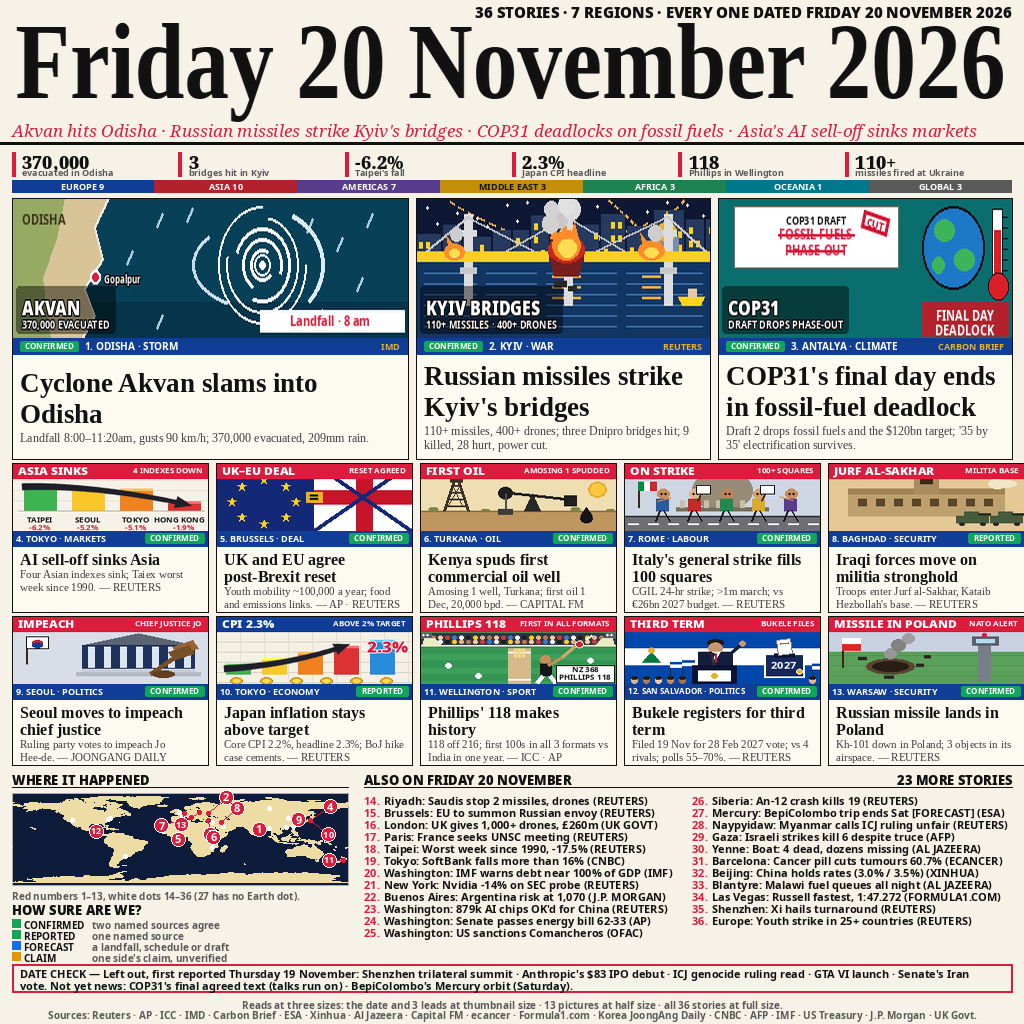
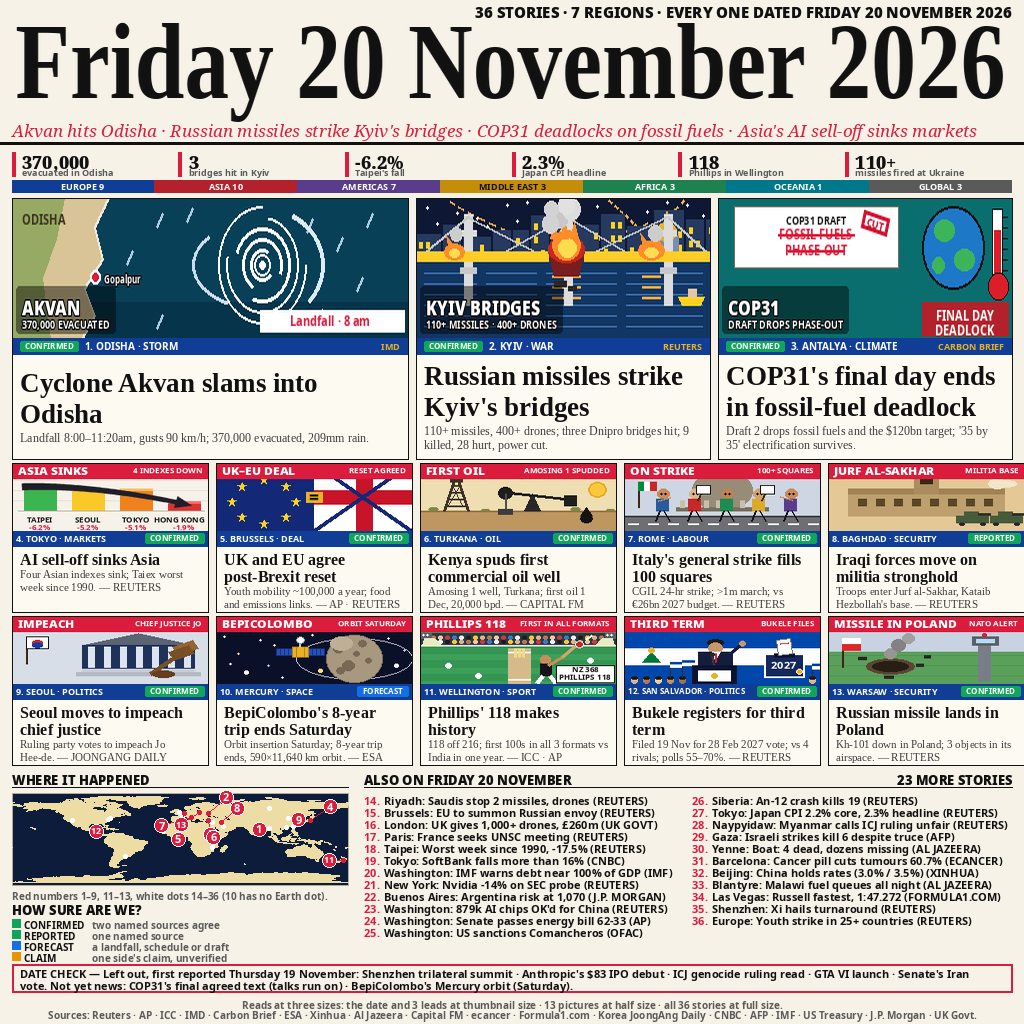
v11: BepiColombo drawn as card 10 (Mercury + spacecraft + orbit, FORECAST); CPI to also-list 27

diff --git a/draw.py b/draw.py
@@ -1,13 +1,13 @@
 #!/usr/bin/env python3
-"""news-image-20261120 v8: 36 stories, newspaper front page, top-10 chase.
+"""news-image-20261120 v11: 36 stories, newspaper front page, top-10 chase.
 Draws entry.png (1024x1024, deterministic) from world.geo.json only.
-v8 (on the v7 design — cream paper, black serif masthead, 6-number strip,
-region bar, solid art banners): the TOP-10 rebuild — masthead + hero
-headlines scaled up (title 68->72px, kicker/deckline up a step, hero
-headlines 22->27px with the art shrunk 105->84px to fit and the hero text
-block vertically centred), per-card verification tags (CONFIRMED where
-research-v5.md shows 2+ named outlets agree, REPORTED where single-outlet;
-BepiColombo flagged [FORECAST] in the also-list), legend gains CONFIRMED.
+v11 (on the v10 design — cream paper, black serif masthead 108px squeezed,
+6-number strip, region bar, solid art banners): ONE change — card 10 is
+now BepiColombo drawn (Mercury + spacecraft + orbit, original PIL vector
+art, FORECAST pill: orbit insertion is Saturday 21 Nov, not 20 Nov) in
+place of Japan CPI, which drops to also-list 27 (its 2.3% stays in the
+stats strip). Pin 10 leaves the map (no Earth dot); 27 becomes the Tokyo
+CPI dot. Region counts net unchanged (ASIA 10, GLOBAL 3).
 All facts verified live 2026-11-21; see research-v5.md + NOTES.md. Design
 baseline (user-approved 2026-11-20): boxed 1px INK cards,
 LiberationSerif-Bold headlines + LiberationSerif decks. CONTENT ONLY changed
@@ -140,7 +140,9 @@ PILL_COL = {
 # Daily+Asia Daily; Phillips ICC+AP+Reuters; Bukele Reuters+BusinessWorld;
 # Poland Reuters+Polish DefMin; Akvan row says "ALL CONFIRMED", IMD via
 # Hindu BusinessLine + CSR Journal). REPORTED where single-outlet:
-# Iraq (Reuters only), CPI (Reuters only, Japan Statistics Bureau data).
+# Iraq (Reuters only). BepiColombo is FORECAST (a schedule: ESA +
+# Wikipedia + EarthSky agree insertion is Sat 21 Nov, not 20 Nov);
+# CPI (Reuters only, Japan Statistics Bureau data) is now also-list 27.
 FRONT = [
     (1, "ODISHA", "STORM", "IMD", "REPORTED",
      "Cyclone Akvan slams into Odisha",
@@ -178,10 +180,10 @@ FRONT = [
      "Seoul moves to impeach chief justice",
      "Ruling party votes to impeach Jo Hee-de.",
      "IMPEACH", "CHIEF JUSTICE JO", "seoul", "CONFIRMED"),
-    (10, "TOKYO", "ECONOMY", "REUTERS", "REPORTED",
-     "Japan inflation stays above target",
-     "Core CPI 2.2%, headline 2.3%; BoJ hike case cements.",
-     "CPI 2.3%", "ABOVE 2% TARGET", "cpi", "REPORTED"),
+    (10, "MERCURY", "SPACE", "ESA", "REPORTED",
+     "BepiColombo's 8-year trip ends Saturday",
+     "Orbit insertion Saturday; 8-year trip ends, 590×11,640 km orbit.",
+     "BEPICOLOMBO", "ORBIT SATURDAY", "bepi", "FORECAST"),
     (11, "WELLINGTON", "SPORT", "ICC · AP", "REPORTED",
      "Phillips' 118 makes history",
      "118 off 216; first 100s in all 3 formats vs India in one year.",
@@ -212,7 +214,7 @@ ALSO = [
     (24, "Washington", "Senate passes energy bill 62-33", "AP"),
     (25, "Washington", "US sanctions Comancheros", "OFAC"),
     (26, "Siberia", "An-12 crash kills 19", "REUTERS"),
-    (27, "Mercury", "BepiColombo trip ends Sat [FORECAST]", "ESA"),
+    (27, "Tokyo", "Japan CPI 2.2% core, 2.3% headline", "REUTERS"),
     (28, "Naypyidaw", "Myanmar calls ICJ ruling unfair", "REUTERS"),
     (29, "Gaza", "Israeli strikes kill 6 despite truce", "AFP"),
     (30, "Yenne", "Boat: 4 dead, dozens missing", "AL JAZEERA"),
@@ -237,15 +239,16 @@ STATS = [
 # list (FRONT 1-13 + ALSO 14-36), assigned by subject, not dateline city.
 # EUROPE 9: 2 Kyiv, 5 UK-EU, 7 Italy strike, 13 Poland, 15 Brussels,
 #   16 London, 17 Paris, 31 Barcelona, 36 youth strike.
-# ASIA 10: 1 Akvan, 4 Nikkei, 9 Seoul, 10 Japan CPI, 18 Taipei,
-#   19 Tokyo, 26 An-12, 28 Myanmar reaction, 32 Beijing, 35 Shenzhen.
+# ASIA 10: 1 Akvan, 4 Nikkei, 9 Seoul, 18 Taipei,
+#   19 Tokyo, 26 An-12, 27 Japan CPI, 28 Myanmar reaction, 32 Beijing,
+#   35 Shenzhen.
 # AMERICAS 7: 12 Bukele, 21 Nvidia probe, 22 Argentina risk, 23 AI chips,
 #   24 Senate, 25 sanctions, 34 Las Vegas.
 # MIDDLE EAST 3: 8 Iraq, 14 Riyadh, 29 Gaza strikes.
 # AFRICA 3: 6 Kenya oil, 30 Yenne, 33 Blantyre.
 # OCEANIA 1: 11 Phillips (Wellington).
-# GLOBAL 3: 3 COP31 (global climate summit), 20 IMF debt warning,
-#   27 BepiColombo.
+# GLOBAL 3: 3 COP31 (global climate summit), 10 BepiColombo,
+#   20 IMF debt warning.
 # Total 9+10+7+3+3+1+3 = 36.
 # (label, count, fill, text colour)
 REGIONS = [
@@ -270,7 +273,7 @@ LEGEND = [
 PINS = {
     1: (85.0, 19.3), 2: (30.5, 50.4), 3: (30.7, 36.9), 4: (139.7, 35.7),
     5: (4.4, 50.8), 6: (35.9, 3.1), 7: (12.5, 41.9), 8: (44.2, 32.8),
-    9: (127.0, 37.5), 10: (139.7, 35.7), 11: (174.8, -41.3),
+    9: (127.0, 37.5), 11: (174.8, -41.3),
     12: (-89.2, 13.7), 13: (21.0, 52.2),
 }
 DOTS = {
@@ -278,12 +281,14 @@ DOTS = {
     18: (121.6, 25.0), 19: (139.7, 35.7), 20: (-77.0, 38.9),
     21: (-74.0, 40.7), 22: (-58.4, -34.6), 23: (-77.0, 38.9),
     24: (-77.0, 38.9), 25: (-77.0, 38.9), 26: (96.0, 60.0),
+    27: (139.7, 35.7),
     28: (96.2, 19.8), 29: (34.4, 31.5), 30: (-17.2, 14.7),
     31: (2.2, 41.4), 32: (116.4, 39.9), 33: (35.0, -15.8),
     34: (-115.1, 36.2), 35: (114.1, 22.5), 36: (4.4, 50.8),
 }
-# v5: 27 BepiColombo has no Earth location (Mercury orbit insertion) —
-# it gets no dot, by design.
+# v11: 10 BepiColombo has no Earth location (Mercury orbit insertion) —
+# it gets no pin, by design (like 27 before the swap); 27 is now the
+# Tokyo CPI dot.
 
 PROBLEMS = []
 
@@ -694,7 +699,7 @@ def art_image(key, w, h):
         d.polygon([(166, 52), (160, 62), (172, 62)], fill=(20, 20, 20))
     elif key == "selloff":
         # v5.2: user rejected the v5.1 3D blue bars — redraw as the
-        # VERTICAL MIRROR of card 10 (the CPI rising chart, which the
+        # VERTICAL MIRROR of the old card-10 CPI rising chart (which the
         # user likes): same style — rainbow bars + ONE thick dark
         # curved arrow — but flipped: bars DESCEND left to right and
         # the arrow curves DOWN from top-left to bottom-right. Same
@@ -844,39 +849,55 @@ def art_image(key, w, h):
         d.polygon([(156, 42), (176, 34), (182, 44), (162, 52)],
                   fill=(120, 80, 40))
         d.ellipse([140, 64, 162, 72], fill=(100, 65, 30))
-    elif key == "cpi":
-        # v5.1: per the user's new reference (5 ascending rainbow bars +
-        # one thick dark curved arrow rising) — the v5 navy bars + red
-        # zigzag are gone. Same verified CPI data (core 2.2%, headline
-        # 2.3%). Light card background kept (not the reference's black).
+    elif key == "bepi":
+        # v11: BepiColombo's 8-year trip ends at Mercury — a drawn space
+        # panel: deep-space field, the cratered Mercury disc on its
+        # elliptical orbit, and the ESA craft (gold body, blue solar
+        # wings, white dish) riding the orbit up to it. Insertion is
+        # Saturday 21 Nov, so the card carries the FORECAST pill.
         # Original PIL vector code.
-        d.rectangle([0, 0, w, h], fill=(245, 240, 228))
-        for gy in range(18, h, 12):
-            d.line([0, gy, w, gy], fill=(210, 205, 190), width=1)
-        for gx in range(0, w, 24):
-            d.line([gx, 18, gx, h], fill=(228, 223, 208), width=1)
-        # five rainbow bars, ascending left to right, baseline y68
-        cols = ((60, 180, 80), (250, 200, 40), (240, 130, 30),
-                (220, 50, 50), (40, 140, 220))
-        for i, col in enumerate(cols):
-            bx = 10 + i * 36
-            top = 68 - (12 + i * 7)
-            d.rectangle([bx, top, bx + 24, 68], fill=col)
-            light = tuple(min(255, c + 60) for c in col)
-            d.rectangle([bx, top, bx + 24, top + 2], fill=light)
-        # v5.4: arrowhead pulled back for clearance — 17px from the
-        # "2.3%" focal (was 9px), tail 6px above the coins, head top
-        # 14px below the banner. Same smooth tapered style and colour.
-        smooth_arrow(img, (8, 62), (44, 60), (90, 52), (134, 33),
-                     (30, 30, 40))
-        # red 2.3% focal, top-right, clear of the arrowhead (ends x148)
-        d.text((192, 24), "2.3%", font=F_ART2, fill=RED, anchor="ra",
-               stroke_width=1, stroke_fill="white")
-        # gold coins along the bottom
-        for cx in (14, 44, 74, 104, 134, 164):
-            d.ellipse([cx, 72, cx + 12, 80], fill=GOLD,
-                      outline=(180, 130, 20), width=1)
-            d.ellipse([cx + 3, 74, cx + 9, 78], fill=(255, 220, 80))
+        d.rectangle([0, 0, w, h], fill=(10, 16, 40))
+        # stars, deterministic fixed positions (banner covers y0-18)
+        for sx, sy, sr, scol in (
+                (8, 24, 1, "white"), (22, 44, 1, (255, 220, 120)),
+                (30, 66, 2, "white"), (44, 28, 1, "white"),
+                (52, 58, 1, (180, 200, 255)), (66, 72, 1, "white"),
+                (96, 22, 1, "white"), (104, 64, 2, (255, 220, 120)),
+                (120, 70, 1, "white"), (172, 26, 1, "white"),
+                (180, 58, 2, "white"), (188, 40, 1, (180, 200, 255)),
+                (14, 56, 1, "white"), (58, 34, 1, "white")):
+            d.ellipse([sx - sr, sy - sr, sx + sr, sy + sr], fill=scol)
+        # the orbit: a pale ellipse around Mercury, drawn BEFORE the disc
+        # so the line passes behind it
+        d.ellipse([80, 26, 196, 74], outline=(200, 200, 220), width=1)
+        # Mercury: cratered grey-tan disc, right of centre
+        d.ellipse([110, 22, 166, 78], fill=(168, 152, 128),
+                  outline=(120, 105, 85), width=1)
+        for cx, cy, cr in ((122, 38, 5), (146, 32, 4), (132, 58, 6),
+                           (152, 52, 3), (124, 64, 4), (140, 44, 3)):
+            d.ellipse([cx - cr, cy - cr, cx + cr, cy + cr],
+                      fill=(120, 105, 85))
+        # pale highlight on the sunlit top-left rim
+        d.ellipse([114, 24, 136, 40], fill=(190, 175, 150))
+        # the craft, riding the orbit's upper-left arc: gold body,
+        # blue solar wings with panel lines, white dish on top
+        d.rectangle([60, 38, 76, 46], fill=(40, 80, 180),
+                    outline=(20, 50, 130), width=1)
+        d.line([64, 38, 64, 46], fill=(20, 50, 130), width=1)
+        d.line([68, 38, 68, 46], fill=(20, 50, 130), width=1)
+        d.line([72, 38, 72, 46], fill=(20, 50, 130), width=1)
+        d.rectangle([92, 38, 108, 46], fill=(40, 80, 180),
+                    outline=(20, 50, 130), width=1)
+        d.line([96, 38, 96, 46], fill=(20, 50, 130), width=1)
+        d.line([100, 38, 100, 46], fill=(20, 50, 130), width=1)
+        d.line([104, 38, 104, 46], fill=(20, 50, 130), width=1)
+        d.rectangle([76, 36, 92, 48], fill=GOLD,
+                    outline=(180, 130, 20), width=1)
+        d.line([80, 36, 80, 48], fill=(180, 130, 20), width=1)
+        d.line([88, 36, 88, 48], fill=(180, 130, 20), width=1)
+        d.line([84, 36, 84, 30], fill=(200, 200, 200), width=2)
+        d.ellipse([80, 24, 88, 32], fill="white",
+                  outline=(150, 150, 150), width=1)
     elif key == "cricket":
         # v5.6: Glenn Phillips 118 at the Basin Reserve — a full match
         # scene, not a bare pitch: packed crowd stands + floodlights
@@ -1033,18 +1054,19 @@ def art_image(key, w, h):
 # Seven pins crowd Europe + the Levant (Kyiv/Antalya/Brussels/The Hague/Rome/
 # Gaza/Iraq within ~40x30px), so they are fanned out radially: 6 north-west,
 # 7 west, 5 south-west, 2 north-east, 3 south, 9 south, 8 east.
-# v5: 10 (Tokyo CPI) shares 4's spot, so it is pushed south-east; 11
-# (Wellington) sits at the map's right edge, pulled left; 13 (Warsaw) sits
-# ~9px from Kyiv's true spot, pushed south-west.
+# v5: 11 (Wellington) sits at the map's right edge, pulled left; 13
+# (Warsaw) sits ~9px from Kyiv's true spot, pushed south-west.
 # v5.6: 4 (Tokyo markets) shared its exact spot with 10 AND sat on the
 # coastline with the white Seoul dot touching its left edge, so at page
 # size it read as half-covered; it is pushed north-east into the open
-# Pacific, clear of 10's circle and leader line.
+# Pacific, clear of the Seoul dot.
 # v6: 6 (Turkana) sits in open central Africa and 9 (Seoul) sits ~12px
 # west of Tokyo's true spot with both Tokyo pins fanned away, so neither
 # needs an offset any more.
+# v11: 10 is gone (BepiColombo has no Earth dot), so 4 no longer shares
+# its spot with a second Tokyo pin.
 PIN_OFF = {2: (18, -16), 3: (2, 14), 4: (20, -14), 5: (-6, 26),
-           7: (-30, 8), 8: (16, -14), 10: (18, 14),
+           7: (-30, 8), 8: (16, -14),
            11: (-14, 0), 13: (-18, 12)}
 
 
@@ -1191,7 +1213,7 @@ def small_card(img, d, story, x, y):
     d.rectangle([x, y, x + w, y + SMALL_CARD_H], fill=NEARWHITE)
     art = art_image(key, w, 80)
     art_d = ImageDraw.Draw(art)
-    banner_fill = NAVY if key == "cpi" else RED
+    banner_fill = RED
     art_banner(art, art_d, 0, 0, w, 80, big, small, banner_fill)
     art = art.resize((w, SMALL_ART_H), Image.LANCZOS)
     img.paste(art, (x, y))
@@ -1291,7 +1313,7 @@ def main():
     d.rectangle([12, map_y + 22, 348, map_y + 114], fill=NAVY_DARK,
                 outline=RULE, width=1)
     draw_map(d, 12, map_y + 22, 336, 92)
-    d.text((12, map_y + 118), "Red numbers 1–13, white dots 14–36 (27 has no Earth dot).",
+    d.text((12, map_y + 118), "Red numbers 1–9, 11–13, white dots 14–36 (10 has no Earth dot).",
            font=F_TTEXT, fill=GREY)
     # how-sure-are-we legend under the map (was the stats row)
     d.text((12, map_y + 130), "HOW SURE ARE WE?", font=F_SEC, fill=INK)
